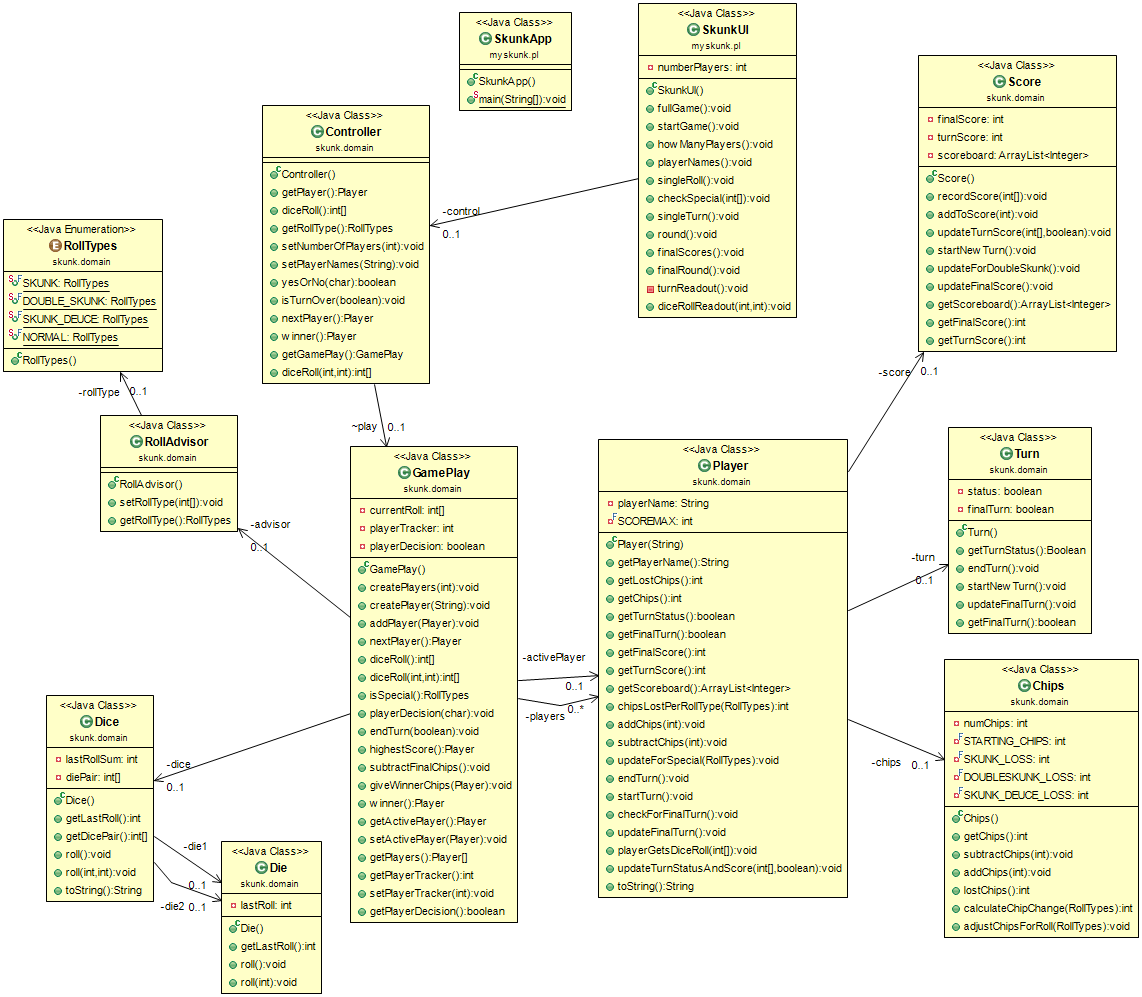
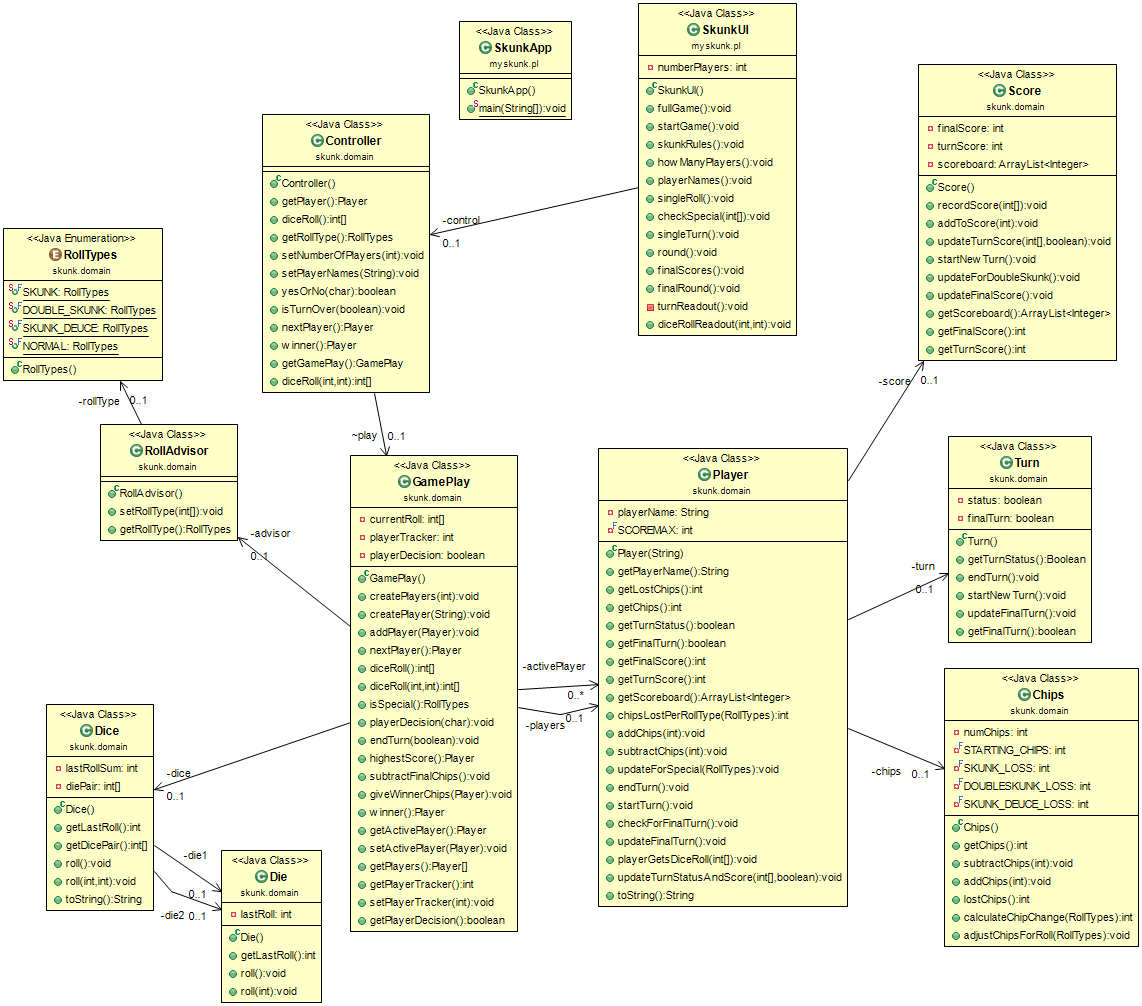
Added Rules

diff --git a/SkunkProject/src/myskunk/pl/SkunkUI.java b/SkunkProject/src/myskunk/pl/SkunkUI.java
@@ -25,14 +25,70 @@ public class SkunkUI {
 	
 	//*****Game Setup*****************
 	public void startGame() {
-		System.out.println("Welcome to Skunk");
+		System.out.println("Welcome to Skunk!");
 		System.out.println();
-		System.out.println("Would you like to review the rules before we start?");
-		//rules system
+		System.out.println("Would you like to review the rules before we start? [Y/N]");
+		char decision = StdIn.readString().charAt(0);
+		if (control.yesOrNo(decision)) {
+			skunkRules();
+		}
+	}
+	
+	public void skunkRules() {
+		System.out.println("DIRECTIONS FOR PLAYING:");
+		System.out.println("------------------------");
+		System.out.println("The object of the game is to accumulate a score of 100 points or more."); 
+		System.out.println("Points are made by rolling the dice and combining the points on the two dice.");
+		System.out.println("After a successful roll, can continue to roll to increase his score or can pass ");
+		System.out.println("the dice and wait for his next turn. Passing the dice prevents the possibility ");
+		System.out.println("of rolling a Skunk and losing his score.");
+		
+		System.out.println();
+		System.out.println("EXAMPLE: If a player rolls 4 and 5 that gives him 9 points.  ");
+		System.out.println("If the player decides roll the dice again and gets a 3 and 5 (8 points),  ");
+		System.out.println("he would then have an accumulated total of 17 points for the two rolls. ");
+		System.out.println("The player could choose to stop his turn and keep the 17 points.");
+		System.out.println("If he continued to roll, and rolled a Skunk, he would lose all of the 17 points.");
+		
+		System.out.println();
+		System.out.println("A game can have any number of players. At least two players is recommended. Each player starts with 50 chips.");
+		System.out.println();
+		
+		System.out.println("ROLL PENALTIES:");
+		System.out.println("----------------");
+		System.out.println("Skunk:");
+		System.out.println("What is it? ---- A skunk is any roll with a single 1 (without a 2 or another 1). ");
+		System.out.println("What happens? ---- The score for that turn is voided and the player ends his turn.");
+		System.out.println("How many lost chips? ---- One chip placed in the Kitty (where lost chips are kept).");
+	
+		System.out.println();
+		System.out.println("Skunk & Deuce:");
+		System.out.println("What is it? ---- A roll with a 1 and 2 on the dice. ");
+		System.out.println("What happens? ---- The score for that turn is voided and the player ends his turn.");
+		System.out.println("How many lost chips? ---- 2 chips placed in the Kitty.");
+	
+		System.out.println();
+		System.out.println("Double Skunk:");
+		System.out.println("What is it? ---- A roll with two 1s on the dice (snake-eyes). ");
+		System.out.println("What happens? ---- The ENTIRE accumulated score is voided and the player ends his turn.");
+		System.out.println("How many lost chips? ---- 4 chips placed in the Kitty.");
+	
+		System.out.println();
+		System.out.println("WINNING THE GAME:");
+		System.out.println("------------------");
+		System.out.println("The first player to get 100 or more points can continue to score as many points over 100 ");
+		System.out.println("as he believes is needed to win. When he stops, each other player gets another chance to roll and best his score.  ");
+		System.out.println("Once each player has rolled a last time, the player with the highest score is declared the winner.");
+		System.out.println();
+		System.out.println("The winner of each game collects all chips in Kitty. The winner also gets 5 chips from every losing player,");
+		System.out.println("except for those with no score, -- the winner gets 10 chips from those players.");
 		
 	}
 	
 	public void howManyPlayers() {
+		System.out.println();
+		System.out.println("---------------STARTING THE GAME------------------");
+		System.out.println();
 		System.out.println("How many players? ");
 		numberPlayers = StdIn.readInt();
 		control.setNumberOfPlayers(numberPlayers);

diff --git a/SkunkProject/src/myskunk/pl/SkunkApp.java b/SkunkProject/src/myskunk/pl/SkunkApp.java
@@ -5,7 +5,6 @@ public class SkunkApp {
 	public static void main(String[] args) {
 		
 		SkunkUI ui = new SkunkUI();
-		
 		ui.fullGame();
 	}
 
